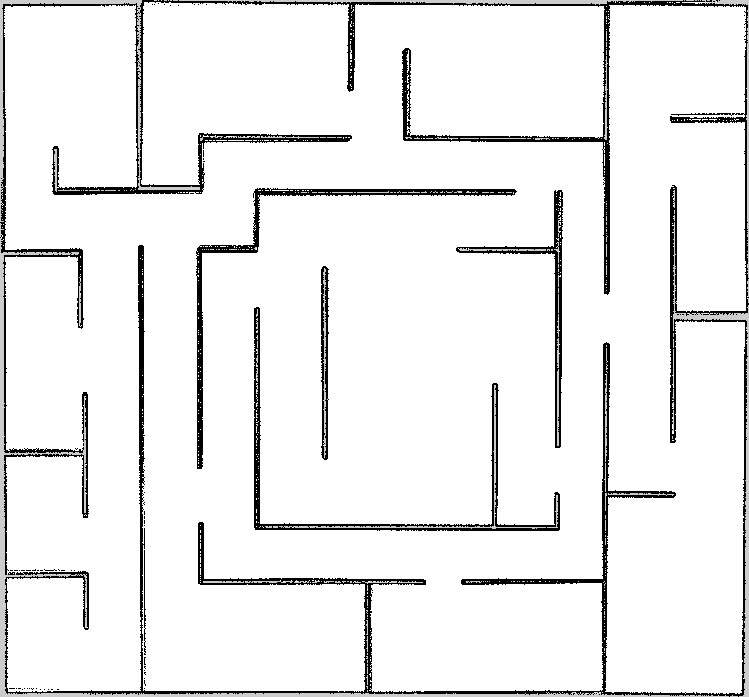
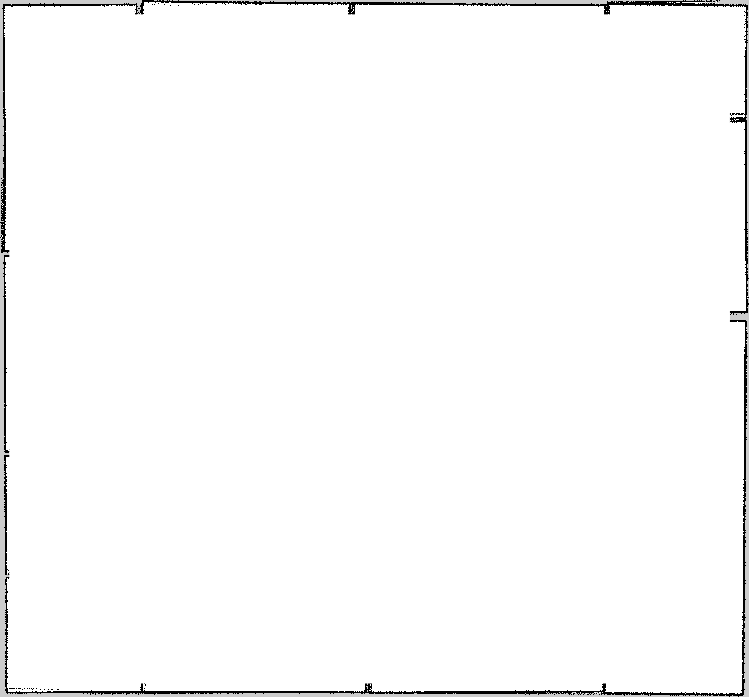
Updated bringup with streams from photoneo cameera, added tf targer publisher running, updated map

diff --git a/common/robotnik_simulation_bringup/launch/bringup_complete.launch.py b/common/robotnik_simulation_bringup/launch/bringup_complete.launch.py
@@ -189,6 +189,19 @@ def generate_launch_description():
         actions=[navigation]
     )
 
+    tf_target_publisher = IncludeLaunchDescription(
+        PythonLaunchDescriptionSource(
+            PathJoinSubstitution([
+                 FindPackageShare('tf_target_publisher'), 'launch/tf_target_publisher.launch.py'
+            ])
+        ),
+    )
+
+    delayed_tf_target_publisher = TimerAction(
+        period=20.0,
+        actions=[tf_target_publisher]
+    )
+
     rviz = IncludeLaunchDescription(
         PythonLaunchDescriptionSource(
             PathJoinSubstitution([
@@ -232,6 +245,7 @@ def generate_launch_description():
         laser_filters,
         delayed_localization,
         delayed_navigation,
+        delayed_tf_target_publisher,
         delayed_rviz,
         delayed_moveit,
     ])
